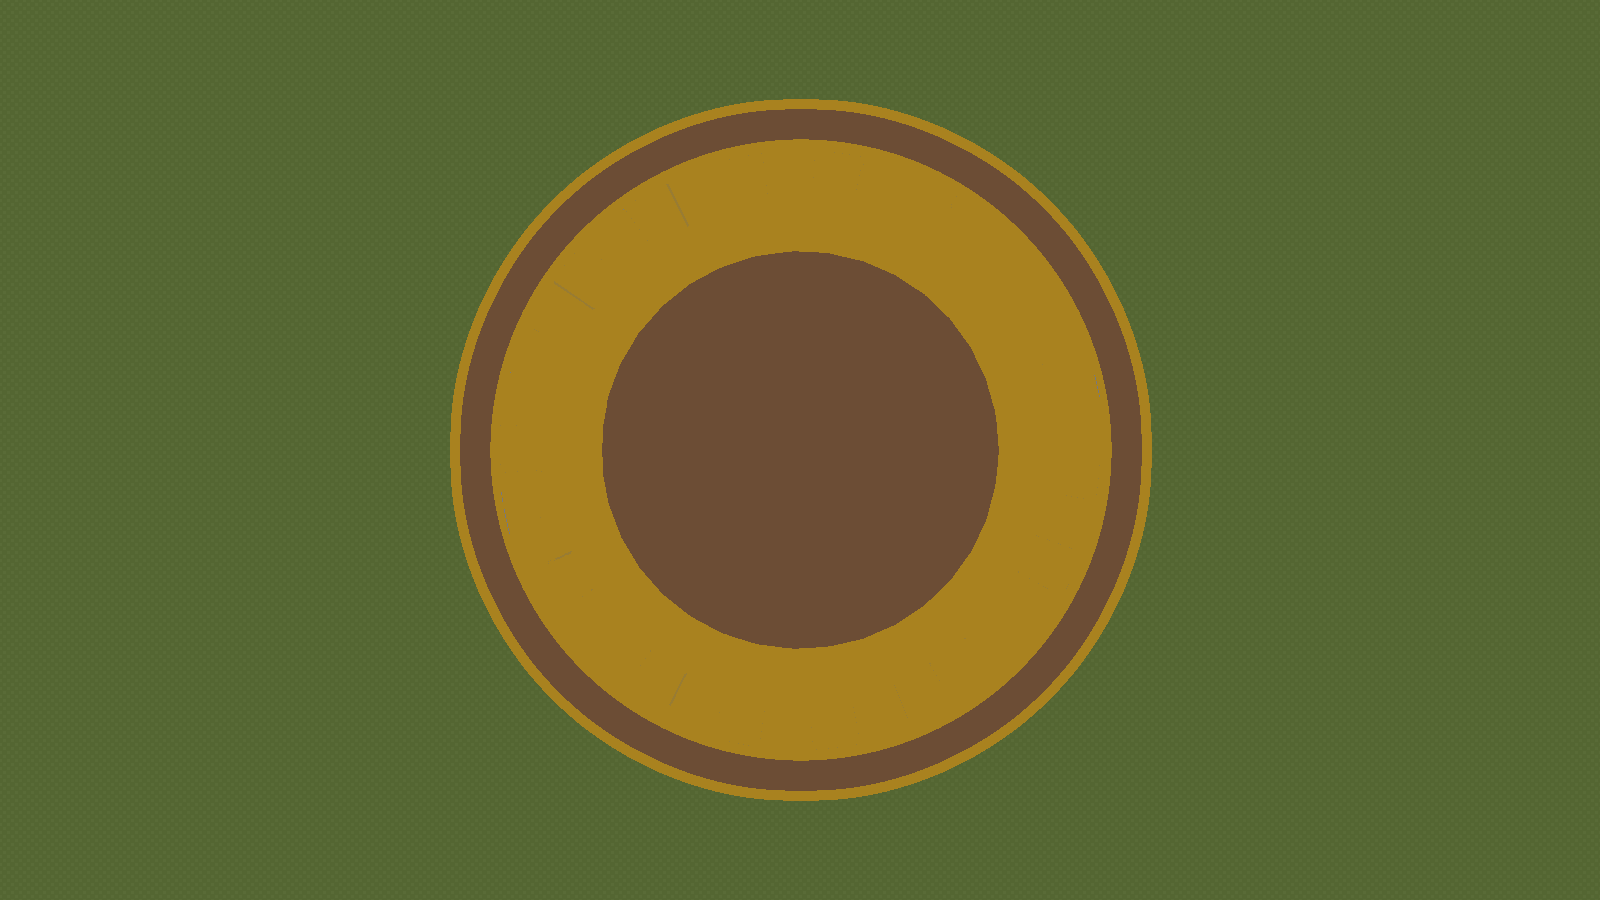
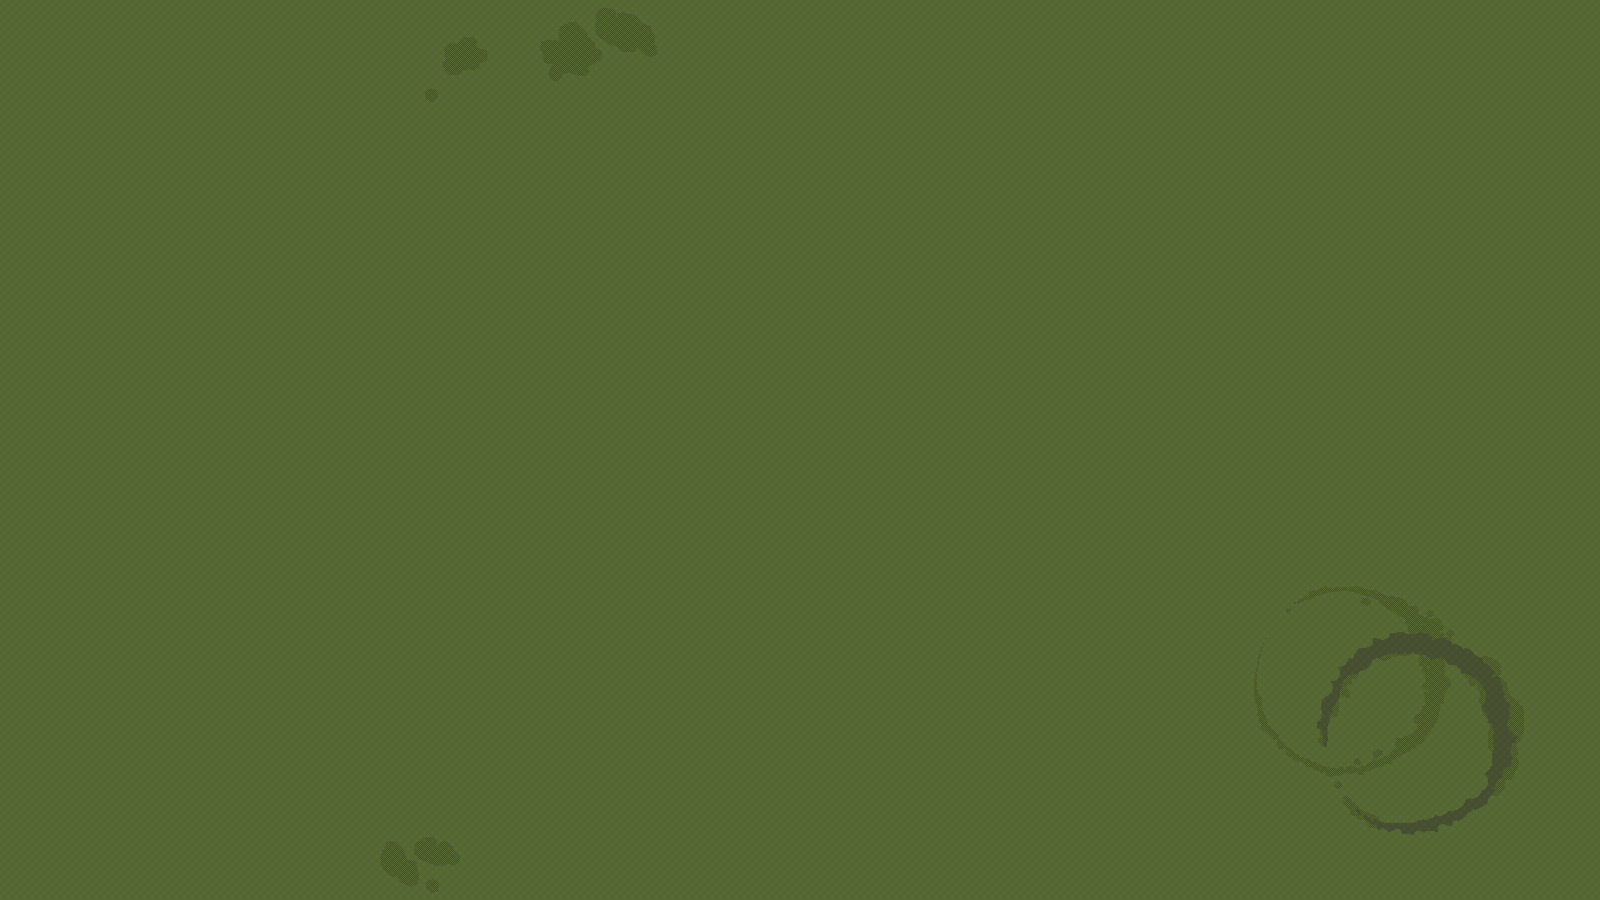
Updated background to seperate wheel and background from each other.
Added new WheelBack texture. Moves with the wheel when moving in and out of frame.

Changed region(s): [[0.2812, 0.0933, 0.7188, 0.9022]]

diff --git a/core/src/main/java/io/wasabi/urg/elements/game/Wheel.java b/core/src/main/java/io/wasabi/urg/elements/game/Wheel.java
@@ -5,10 +5,10 @@ import java.util.List;
 import com.badlogic.gdx.Gdx;
 import com.badlogic.gdx.graphics.GL20;
 import com.badlogic.gdx.graphics.OrthographicCamera;
+import com.badlogic.gdx.graphics.Texture;
+import com.badlogic.gdx.graphics.g2d.SpriteBatch;
 import com.badlogic.gdx.graphics.glutils.ShapeRenderer;
 import com.badlogic.gdx.graphics.glutils.ShapeRenderer.ShapeType;
-import com.badlogic.gdx.graphics.g2d.SpriteBatch;
-
 import com.badlogic.gdx.math.MathUtils;
 import com.badlogic.gdx.math.Vector2;
 import com.badlogic.gdx.physics.box2d.Body;
@@ -39,6 +39,7 @@ public class Wheel {
         0, 32, 15, 19, 4, 21, 2, 25, 17, 34, 6, 27, 13, 36, 11, 30, 8, 23, 10, 5, 24, 16, 33, 1, 20, 14, 31, 9, 22, 18, 29, 7, 28, 12, 35, 3, 26};
 
     private final World world;
+    private final Texture wheelBackground;
 
     private Vector2 position = new Vector2();
     private float rotation; // in Degrees
@@ -59,6 +60,7 @@ public class Wheel {
     public Wheel(World world, Vector2 position) {
         this.world = world;
         this.position = position;
+        this.wheelBackground = new Texture(Gdx.files.internal("ui/WheelBack.png"));
         this.spinButton = new SpinButton(position, 160f);
 
         // Testing
@@ -195,12 +197,21 @@ public class Wheel {
             setRotation(body.getAngle());
         }
 
-        for (Tile tile : tiles) {
-            tile.render();
-        }
-
         if (tweenY != null && !tweenY.isComplete()) {
             this.position.y = tweenY.update(delta);
+        }
+
+        // draw wheel background at the middle of the screen
+        SPRITE_BATCH.begin();
+        SPRITE_BATCH.draw(
+            wheelBackground,
+            position.x - wheelBackground.getWidth() / 2f,
+            position.y - wheelBackground.getHeight() / 2f
+        );
+        SPRITE_BATCH.end();
+
+        for (Tile tile : tiles) {
+            tile.render();
         }
 
         update();
@@ -255,6 +266,7 @@ public class Wheel {
     }
 
     public void dispose() {
+        wheelBackground.dispose();
         world.destroyBody(body);
     }
 
